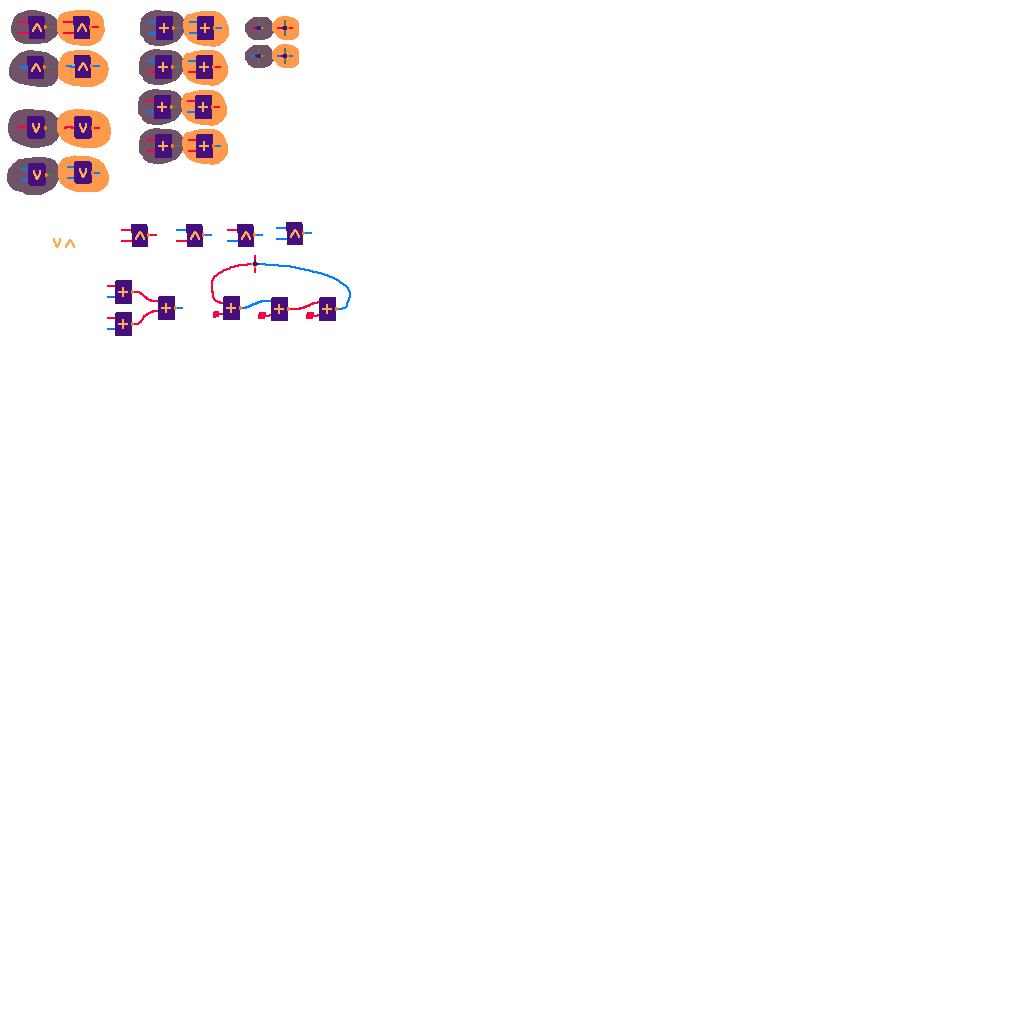
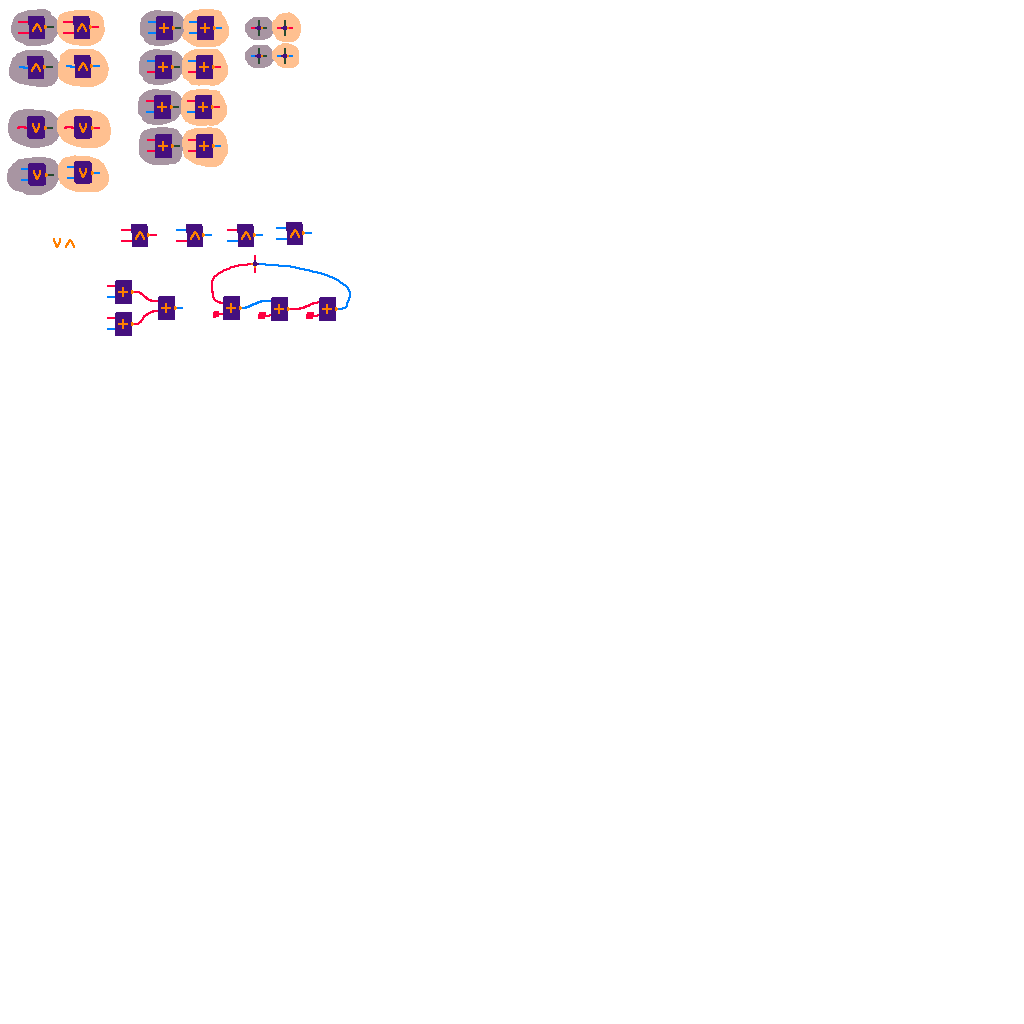
Rule effect larger gap between interior and border

Changed region(s): [[0.0, 0.0, 0.3125, 0.1875]]

diff --git a/src/material_effects.rs b/src/material_effects.rs
@@ -13,16 +13,45 @@ enum BorderClass {
 
 /// Classify where `pixel` lies in an area defined by the `area` predicate. Assumes `area(pixel)`.
 fn border_class(pixel: Point<i64>, mut area: impl FnMut(Point<i64>) -> bool) -> BorderClass {
-    const GAP_NEIGHBORS: [Point<i64>; 4] = [Point(-1, 0), Point(0, 1), Point(1, 0), Point(0, -1)];
-    const BORDER_NEIGHBORS: [Point<i64>; 8] = [
-        Point(-2, 0),
-        Point(-1, 1),
-        Point(0, 2),
-        Point(1, 1),
-        Point(2, 0),
-        Point(1, -1),
-        Point(0, -2),
+    // const GAP_NEIGHBORS: [Point<i64>; 4] = [Point(-1, 0), Point(0, 1), Point(1, 0), Point(0, -1)];
+    // const BORDER_NEIGHBORS: [Point<i64>; 8] = [
+    //     Point(-2, 0),
+    //     Point(-1, 1),
+    //     Point(0, 2),
+    //     Point(1, 1),
+    //     Point(2, 0),
+    //     Point(1, -1),
+    //     Point(0, -2),
+    //     Point(-1, -1),
+    // ];
+
+    const GAP_NEIGHBORS: [Point<i64>; 8] = [
         Point(-1, -1),
+        Point(-1, 0),
+        Point(-1, 1),
+        Point(0, 1),
+        Point(1, 1),
+        Point(1, 0),
+        Point(1, -1),
+        Point(0, -1),
+    ];
+    const BORDER_NEIGHBORS: [Point<i64>; 16] = [
+        Point(-2, -2),
+        Point(-2, -1),
+        Point(-2, 0),
+        Point(-2, 1),
+        Point(-2, 2),
+        Point(-1, 2),
+        Point(0, 2),
+        Point(1, 2),
+        Point(2, 2),
+        Point(2, 1),
+        Point(2, 0),
+        Point(2, -1),
+        Point(2, -2),
+        Point(1, -2),
+        Point(0, -2),
+        Point(-1, -2),
     ];
 
     if GAP_NEIGHBORS
